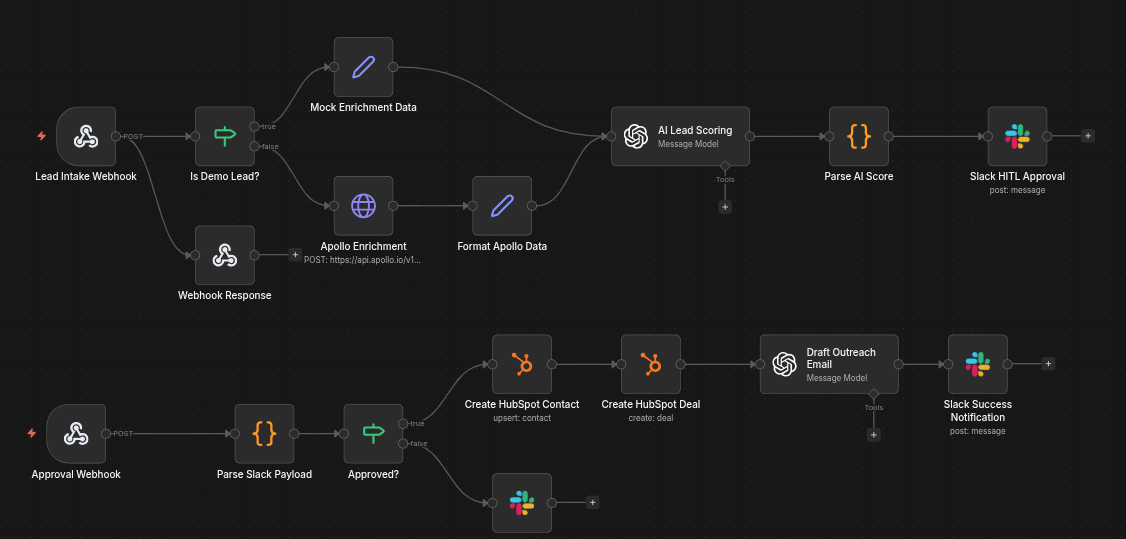
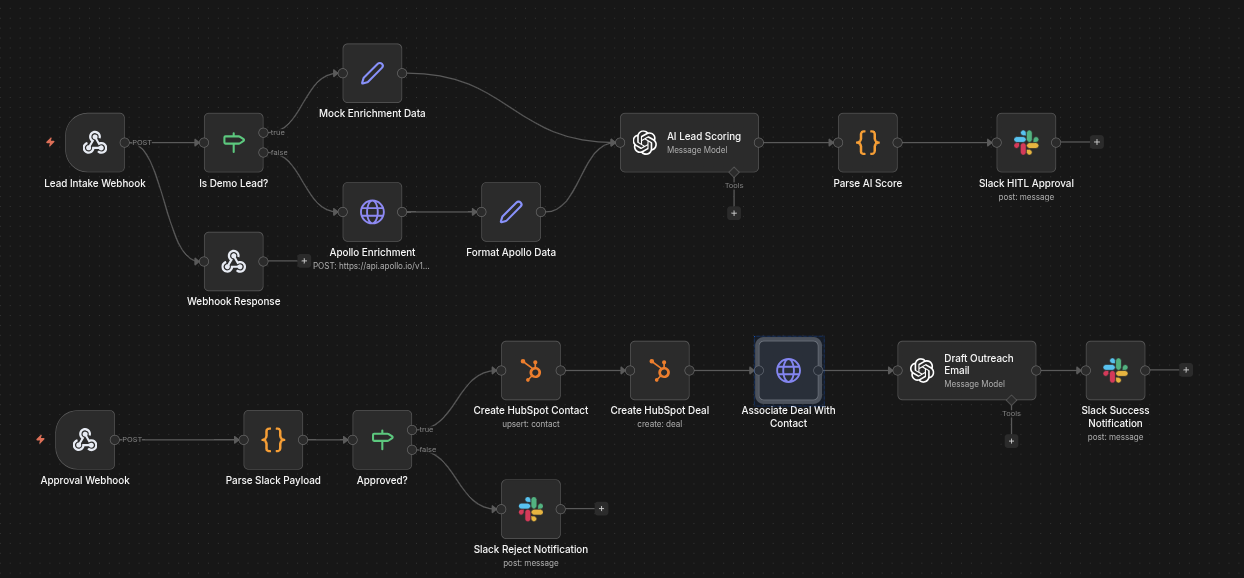
crm-automation: auto-associate HubSpot deal with contact + free-tier enrichment alternatives

diff --git a/crm-automation/README.md b/crm-automation/README.md
@@ -31,10 +31,11 @@ An end-to-end AI-powered lead qualification and CRM automation pipeline built wi
 ### Workflow 2 - Approval Pipeline
 
 7. **Button click webhook** - Slack sends the interaction payload to a separate n8n webhook (`/hitl-resume`)
-8. **Lead data extraction** - a Code node extracts lead data embedded as a pipe-delimited string in the Slack notification text (this solves cross-workflow data passing since the approval runs in a separate execution context)
+8. **Lead data extraction** - a Code node extracts lead data embedded as a pipe-delimited string in the Slack notification text (this solves cross-workflow data passing since the approval runs in a separate execution context). *Demo simplification — for production, persist the lead to a shared store (Redis / Postgres) keyed by Slack's `callback_id` and look it up on resume.*
 9. **Approved path:**
    - Creates a HubSpot contact (first name, last name, email, job title, company, industry, lead status)
    - Creates a HubSpot deal (deal name, stage, close date, estimated amount)
+   - **Associates the deal with the contact** — calls the HubSpot v4 Associations API (`PUT /crm/v4/objects/deals/{dealId}/associations/default/contacts/{contactId}`) using the IDs returned by the two previous nodes, so the deal appears under the contact in HubSpot and vice-versa
    - Drafts a personalised cold outreach email with GPT-4.1-mini referencing the lead's role, company, and AI key signal
    - Posts the drafted email to Slack for the salesperson to review and send from HubSpot
 10. **Rejected path:** posts a rejection notification to Slack with the lead's score
@@ -83,6 +84,9 @@ Create HubSpot Contact
 Create HubSpot Deal
       │
       ▼
+Associate Deal ↔ Contact (HubSpot v4 Associations API)
+      │
+      ▼
 Draft Outreach Email (GPT-4.1-mini)
       │
       ▼
@@ -128,7 +132,7 @@ Slack Success Notification (with email draft)
 
 ### n8n workflow canvas
 ![n8n workflow](screenshots/n8n-workflow.png)
-*The two pipelines: lead intake (form → enrich → score → Slack HITL) and approval (Slack click → HubSpot contact + deal + outreach draft).*
+*The two pipelines: lead intake (form → enrich → score → Slack HITL) and approval (Slack click → HubSpot contact + deal + association + outreach draft).*
 
 ---
 
@@ -234,8 +238,7 @@ Turn on both workflows in n8n (toggle top right), open `form/index.html` in a br
 ## Known limitations & production considerations
 
 - **ngrok URL changes on restart** - every time ngrok restarts, you get a new URL. You need to update `WEBHOOK_URL` in `docker-compose.yml`, restart n8n, and update the Slack Interactivity Request URL. A paid ngrok plan gives you a stable domain.
-- **Apollo.io requires a paid plan** - the People Match API is only available on the Organization plan ($119/month). This demo uses mock data. [Clearbit](https://clearbit.com) is a viable alternative with a free tier.
-- **HubSpot deal-contact association not automated** - the deal and contact are created as separate objects but not linked, so the deal won't appear under the contact in HubSpot. Linking them is one extra call to the [CRM v4 Associations API](https://developers.hubspot.com/docs/api/crm/associations): `PUT /crm/v4/objects/deals/{dealId}/associations/default/contacts/{contactId}`, passing the IDs returned by the `Create HubSpot Deal` and `Create HubSpot Contact` nodes. Drop it in as an HTTP Request node right after `Create HubSpot Deal` to make the pipeline production-complete.
+- **Apollo.io requires a paid plan for live enrichment** — the People Match API is only on Apollo's Organization plan ($119/month), so the demo ships with mock enrichment data that mirrors the Apollo response shape exactly. Free-tier alternatives that drop straight into the `Apollo Enrichment` HTTP Request node: **[People Data Labs](https://www.peopledatalabs.com/)** (free 100 enrichments/month — Person Enrichment API), **[Hunter.io](https://hunter.io)** (free 25 lookups/month — email-finder + person data), or **[HubSpot Breeze Intelligence](https://www.hubspot.com/products/breeze-intelligence)** (free for HubSpot customers — the ex-Clearbit product). Swap the URL, headers, and the `Format Apollo Data` field mappings; the rest of the pipeline is unchanged.
 - **Slack Interactivity URL must match ngrok** - any time the tunnel restarts, the Slack App settings need to be updated manually.
 
 ---
